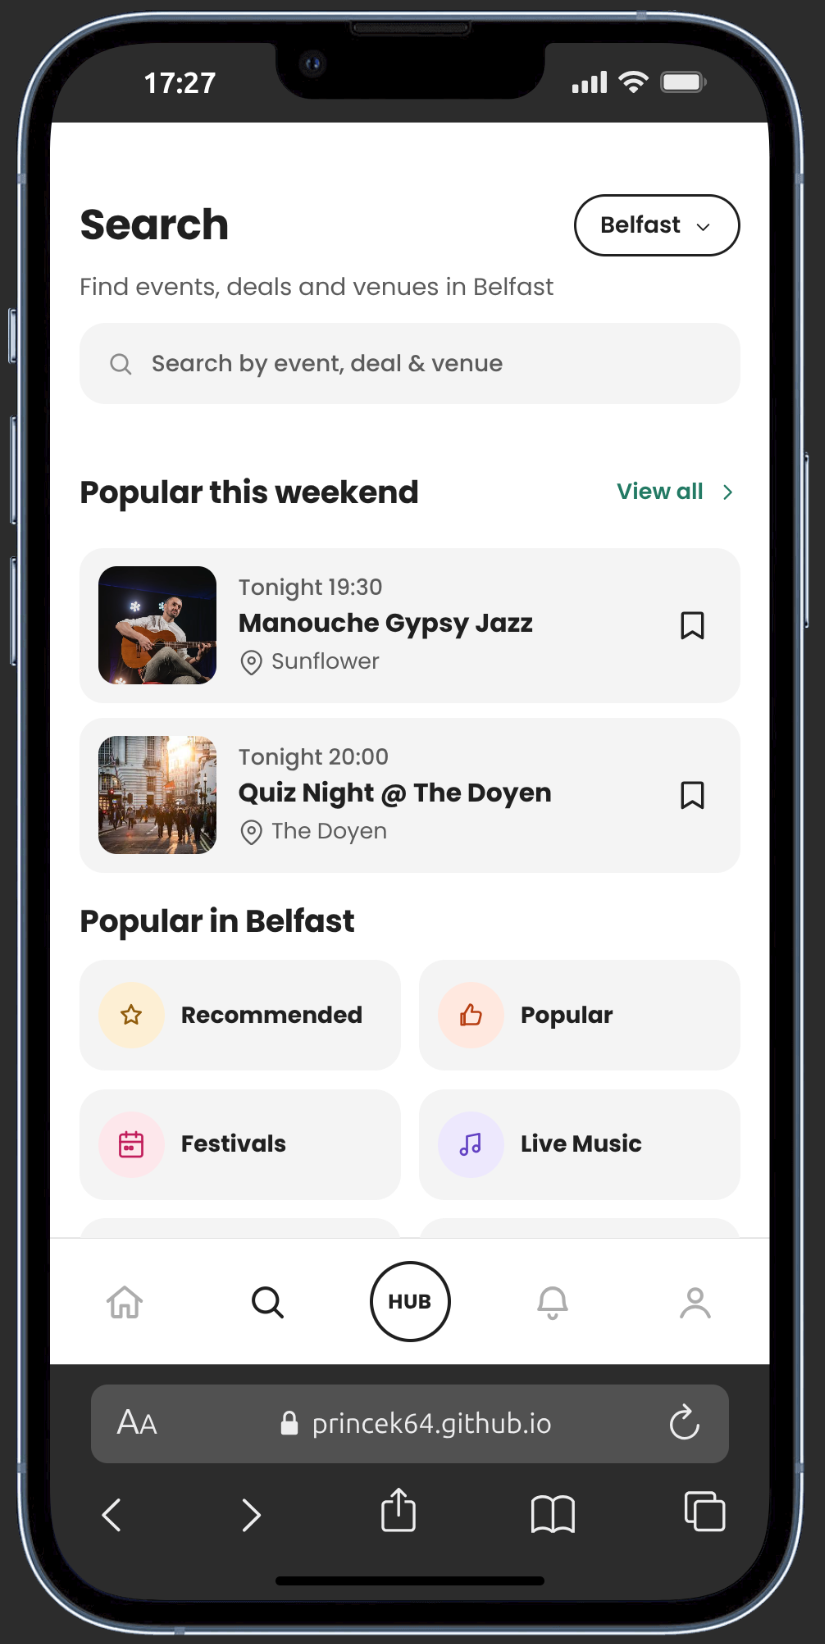
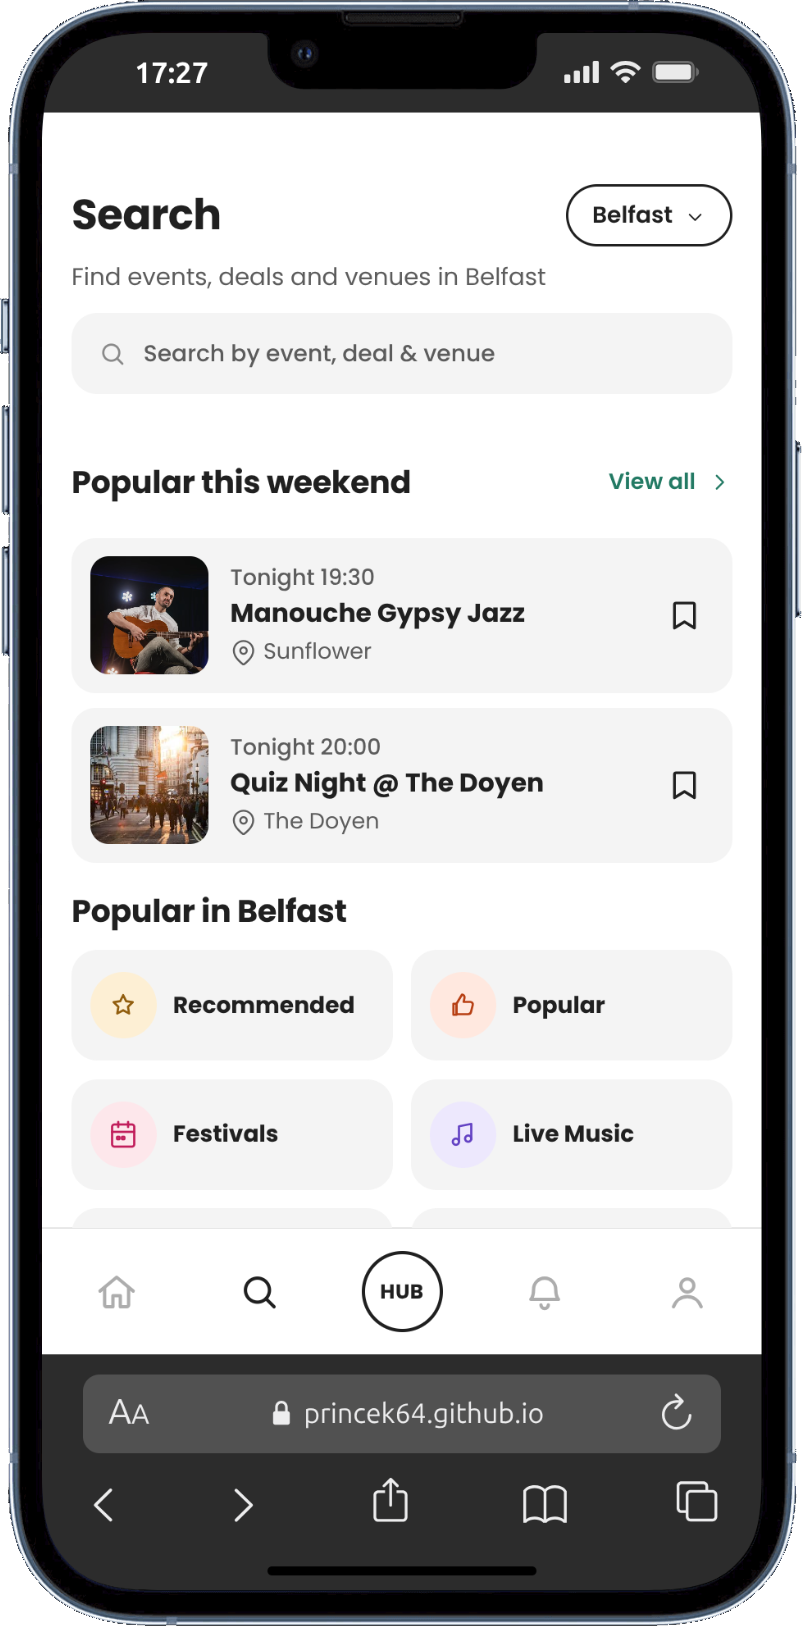
Clean mobile case study screenshots
Remove the gray matte around device shots and drop the extra border the phone frame added outside the bezel.

diff --git a/app/components/phone-frame.tsx b/app/components/phone-frame.tsx
@@ -5,25 +5,29 @@ interface PhoneFrameProps {
   src: string;
   alt: string;
   caption?: string;
+  width?: number;
+  height?: number;
 }
 
-export function PhoneFrame({ src, alt, caption }: PhoneFrameProps) {
+export function PhoneFrame({
+  src,
+  alt,
+  caption,
+  width = 802,
+  height = 1626,
+}: PhoneFrameProps) {
   return (
     <figure className="my-8 flex flex-col items-center">
-      <div className="w-full max-w-[280px] rounded-[1.75rem] border border-neutral-300 dark:border-neutral-700 p-1.5">
-        <div className="relative overflow-hidden rounded-[1.25rem]">
-          <Image
-            src={src}
-            alt={alt}
-            width={750}
-            height={1624}
-            sizes="280px"
-            className="w-full h-auto"
-          />
-        </div>
-      </div>
+      <Image
+        src={src}
+        alt={alt}
+        width={width}
+        height={height}
+        sizes="(max-width: 640px) 72vw, 280px"
+        className="h-auto w-full max-w-[280px]"
+      />
       {caption && (
-        <figcaption className="mt-2.5 text-xs font-mono text-neutral-500 dark:text-neutral-500 text-center leading-relaxed">
+        <figcaption className="mt-2.5 text-center font-mono text-xs leading-relaxed text-neutral-500 dark:text-neutral-500">
           {caption}
         </figcaption>
       )}
